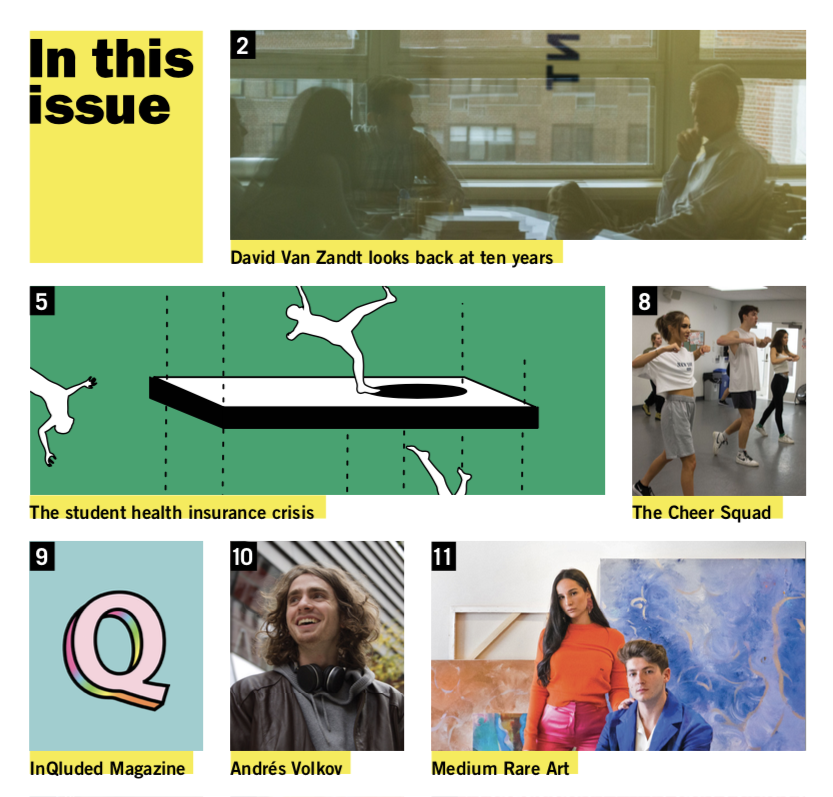
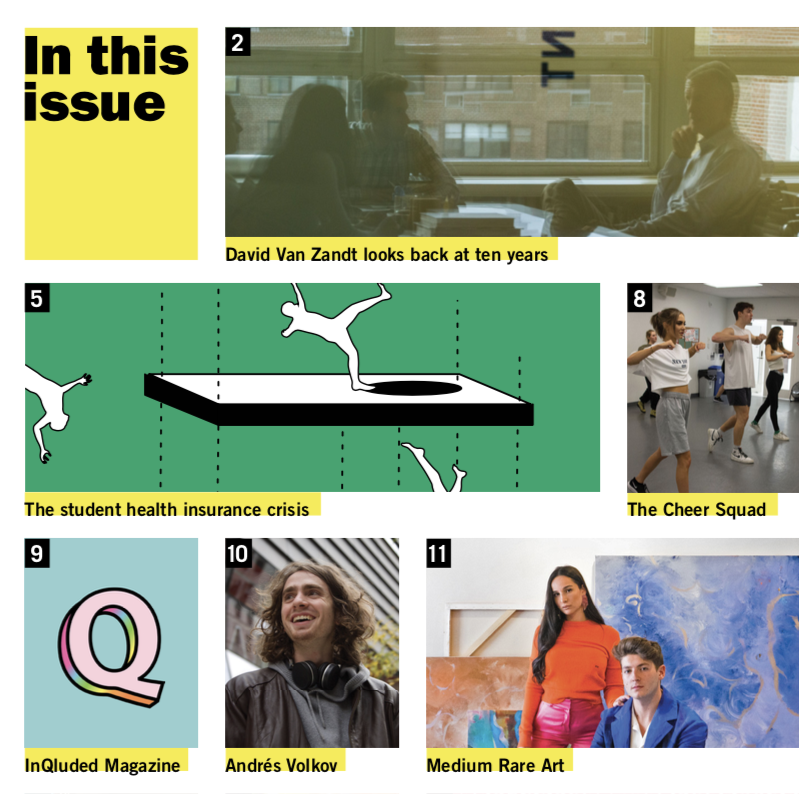
i just know something is gonna go wrong

Changed region(s): [[0.03, 0.0302, 1.0, 0.9975]]

diff --git a/homer.js b/homer.js
@@ -1,12 +1,24 @@
-/*-----------definitions-------------*/
+/*---PHP gets---*/
+var proj0='assets/bg1.jpg'
+var p0title="NSFP Illustration"
+var proj1='assets/bg2.jpg'
+var p1title="NYC Photography"
+var proj2='assets/bg3.png'
+var p2title="NSFP Magazine November 2019"
+
+/*---end of PHP gets---*/
+
+/*-----------starting definitions-------------*/
 var mode=3;
 var root=root = document.documentElement
 container=d3.select('#container')
 var detectMobile=false
 m0Blocks=['name','proj','proj','genre','toggle','proj']
 m1Blocks=['name','proj','back','back','genre','toggle','proj','back','proj']
-m2Blocks=['name','proj','back','exp','back','back','back','des','proj','pho','proj','ill','back','toggle','last']
+m2Blocks=['name','proj','back','exp','back','back','back','des','proj','pho','proj','ill','back','toggle','back']
 let vh = 1
+var capHeight="30"
+
 /*-----------end of definitions-------------*/
 
 /*-----------update display-------------*/
@@ -17,13 +29,87 @@ function updateHeight(){
   root.style.setProperty('--vh', `${vh}px`)
   container.style('height',vh)
   document.getElementById('container').style.height='var(--vh)'
-  console.log('vh: '+vh)
-  console.log('screenheight: '+screenheight)
-  console.log('presumed height: '+container.style('height'))
-  console.log('---------------------------------------')
+}
+
+function imgCaption(){
+  num0=d3.select('.num0').node().getBoundingClientRect()
+  if ((num0.height-30)>num0.width){
+    capHeight=num0.height-num0.width
+    d3.selectAll('.projdesc').style("line-height","19px")
+    d3.selectAll('.projdesc').style("padding-top","10px")
+  }else{
+    capHeight=30
+    d3.selectAll('.projdesc').style("line-height","30px")
+    d3.selectAll('.projdesc').style("padding-top","0px")
+  }
+  d3.selectAll('.projdesc').style("height",capHeight+"px")
 }
 
 function resetGrid(){
+  var blockCounter=0
+  var cardCounter=0
+  var projCounter=0
+  var block;
+  var card;
+
+  function blockAdder(item,row,counter){
+    var identifier="block"+counter
+    row.append('div')
+    .attr("class","item "+item)
+    .attr("id",identifier)
+    block=d3.select("#"+identifier)
+  }
+
+  function cardAdder(){
+    cardNum='num'+cardCounter
+    block.append('div')
+    .classed("card",true)
+    .classed(cardNum,true)
+    card=d3.select("."+cardNum)
+    cardCounter+=1
+  }
+
+  function imgAdder(){
+    cardAdder()
+    switch (projCounter){
+      case 0:
+      card.append('img')
+      .classed("thumb",true)
+      .attr('src',proj0)
+      break;
+      case 1:
+      card.append('img')
+      .classed("thumb",true)
+      .attr('src',proj1)
+      break;
+      case 2:
+      card.append('img')
+      .classed("thumb",true)
+      .attr('src',proj2)
+      break;
+    }
+
+    cardAdder()
+    switch (projCounter){
+      case 0:
+      card.append("div")
+      .classed("projdesc",true)
+      .html(p0title)
+      break;
+      case 1:
+      card.append("div")
+      .classed("projdesc",true)
+      .html(p1title)
+      break;
+      case 2:
+      card.append("div")
+      .classed("projdesc",true)
+      .html(p2title)
+      break;
+    }
+    projCounter+=1
+  }
+
   rows=d3.selectAll('.row')
   items=d3.selectAll('.item')
   rows.remove();
@@ -34,64 +120,54 @@ function resetGrid(){
   r1=d3.select('.r1')
   r2=d3.select('.r2')
   r3=d3.select('.r3')
-  var bgcounter=0
+
   function insert(item,row){
     switch(item){
       case 'name':
-      row.append('div').attr("class","item name")
-      .append('div').attr('id','name')
+      blockAdder(item,row,blockCounter)
+      block.append('div').attr('id','nametype')
       .append('p').html('Nico<br>Chilla')
       break;
       case 'proj':
-      row.append('div').attr("class","item proj")
-      .append('div')
-      .attr("class","temp")
-      var card=d3.select(this)
-      if (bgcounter==0){
-        d3.select('.temp').attr("class","card b1")
-        bgcounter+=1
-      }else if (bgcounter==1){
-        d3.select('.temp').attr("class","card b2")
-        bgcounter+=1
-      }else{
-        d3.select('.temp').attr("class","card b3")
-      }
+      blockAdder(item,row,blockCounter)
+      imgAdder()
       break;
       case 'toggle':
-      row.append('div')
-      .attr("class","item toggle")
-      .attr("onclick","randomize(m2Blocks);")
+      blockAdder(item,row,blockCounter)
+      block.attr("onclick","randomize(m2Blocks);")
       break;
       case 'back':
-      row.append('div').attr("class","item back")
+      blockAdder(item,row,blockCounter)
       break;
       case 'genre':
-      row.append('div').attr("class","item genre")
+      blockAdder(item,row,blockCounter)
       break;
       case 'des':
-      row.append('div').attr("class","item genretype des")
-      .append('div').attr("class","card")
-      .append('span').html('design').attr("class","genrehead")
+      blockAdder(item,row,blockCounter)
+      block.classed("genretype",true)
+      cardAdder()
+      card.append('span').html('design').attr("class","genrehead")
       break;
       case 'ill':
-      row.append('div').attr("class","item genretype ill")
-      .append('div').attr("class","card")
-      .append('span').html('illustration').attr("class","genrehead")
+      blockAdder(item,row,blockCounter)
+      block.classed("genretype",true)
+      cardAdder()
+      card.append('span').html('illustration').attr("class","genrehead")
       break;
       case 'exp':
-      row.append('div').attr("class","item genretype exp")
-      .append('div').attr("class","card")
-      .append('span').html('experiments').attr("class","genrehead")
+      blockAdder(item,row,blockCounter)
+      block.classed("genretype",true)
+      cardAdder()
+      card.append('span').html('experiments').attr("class","genrehead")
       break;
       case 'pho':
-      row.append('div').attr("class","item genretype pho")
-      .append('div').attr("class","card")
-      .append('span').html('photo').attr("class","genrehead")
-      break;
-      case 'last':
-      row.append('div').attr("class","item back last")
+      blockAdder(item,row,blockCounter)
+      block.classed("genretype",true)
+      cardAdder()
+      card.append('span').html('photo').attr("class","genrehead")
       break;
     } //end of switch
+    blockCounter+=1
   }
 
   switch(mode){
@@ -123,7 +199,8 @@ function resetGrid(){
     break;
 
   } //end of switch
-
+blockCounter=0
+imgCaption()
 } //end of function
 /*-----------end of update display-------------*/
 
@@ -152,7 +229,6 @@ function checkMode(){
   };
 } //end of checkMode
 function checkModeMobile(){
-  console.log('mobile mode check activated')
   detectMobile=true
   screenwidth=window.innerWidth;
   screenheight=window.innerHeight;
@@ -173,6 +249,7 @@ function checkModeMobile(){
     resetGrid();
   };
 } //end of checkModeMobile
+
 function accommodate9Block(array){
   m1Blocks=[]
   var lever=true;
@@ -264,7 +341,6 @@ function accommodate6Block(array){
   array.forEach(item=>arrange(item))
 }//end of accomodate9
 function checkModeMobile2(){
-  console.log('hm')
   detectMobile=true
   setTimeout(checkModeMobile, 1);
 } //end of checkModeMobile2
@@ -274,7 +350,21 @@ if (detectMobile==false){
 }else{
 }
 }//end of checkMode2
+
+
+function listenerCall(){
+  imgCaption()
+  checkMode2()
+}
+
+function listenerCallMobile(){
+  imgCaption()
+  checkModeMobile2()
+}
 /*-----------end of mode check-------------*/
+
+
+
 
 
 
@@ -286,6 +376,6 @@ function randomize(array){
 }//end of randomize
 
 checkMode()
-window.addEventListener("deviceorientation", checkModeMobile2, true);
-window.addEventListener("orientationchange", checkModeMobile2);
-window.onresize=checkMode;
+window.addEventListener("deviceorientation", listenerCallMobile, true);
+window.addEventListener("orientationchange", listenerCallMobile);
+window.onresize=listenerCall;

diff --git a/homer.css b/homer.css
@@ -31,7 +31,7 @@
   outline-offset: -1px;
   overflow:hidden;
 }
-#name{
+#nametype{
   color:white;
   font-family: neuzeit-grotesk,sans-serif;
   font-weight: 900;
@@ -69,31 +69,25 @@ height:100%;
 
 
 /*projects*/
-.b1{
-  background-image: url(assets/bg1.jpg);
-  background-size: cover;
-  background-position:top;
-  background-repeat: no-repeat;
-  
+.thumb{
+  width:100%;
+  height:auto;
 }
-.b2{
-  background-image: url(assets/bg2.jpg);
-  background-size: cover;
-  background-position: top;
-  background-repeat: no-repeat;
 
+.projdesc{
+  background-color:var(--backback);
+  width:calc(100% - 10px);
+  height:30px;
+  border-top:2px solid black;
+  font-family: 'Fira Code', monospace;
+  font-size:15px;
+  line-height: 19px;
+  position:absolute;
+  bottom:0;
+  padding-left: 10px;
 }
-.b3{
-  background-image: url(assets/bg3.png);
-  background-size: cover;
-  background-position: top;
-  background-repeat: no-repeat;
 
-}
 /*end of projects*/
-
-
-
 
 /*genre blocks*/
 .genretype{
@@ -126,7 +120,7 @@ height:100%;
 
 /*name media queries*/
 @media (max-width:1000px) and (min-width:800px),(max-width:630px){
-  #name{
+  #nametype{
     transform: rotate(-90deg);
     width:0px;
     right:130px;
@@ -135,7 +129,7 @@ height:100%;
   }
 }
 @media (max-height:400px){
-  #name{
+  #nametype{
     font-size:50px;
     line-height:45px;
     left:15px;
@@ -143,7 +137,7 @@ height:100%;
   }
 }
 @media (max-height:600px) and (max-width:1000px) and (min-width:800px),(max-height:600px) and (max-width:630px){
-  #name{
+  #nametype{
     font-size:50px;
     line-height:45px;
     left:15px;

diff --git a/index.html b/index.html
@@ -6,6 +6,7 @@
   <link rel="stylesheet" href="clearstyle.css" type="text/css">
   <link rel="stylesheet" href="homer.css" type="text/css">
   <link rel="stylesheet" href="https://use.typekit.net/mzh2naa.css">
+  <link href="https://fonts.googleapis.com/css?family=Fira+Code:400,700&display=swap" rel="stylesheet">
   </head>
 
 <body>
